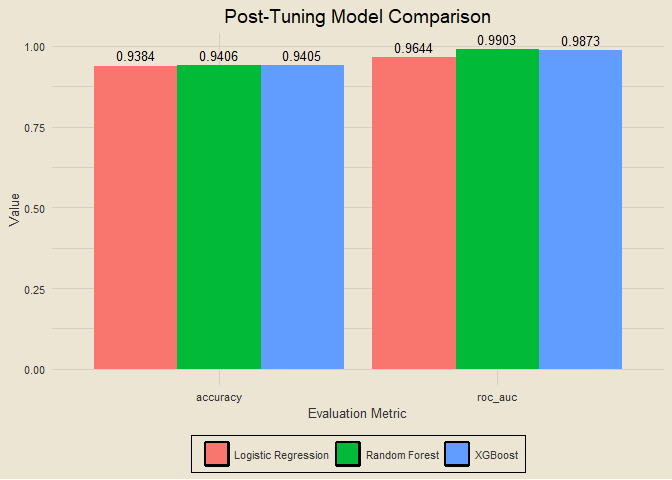
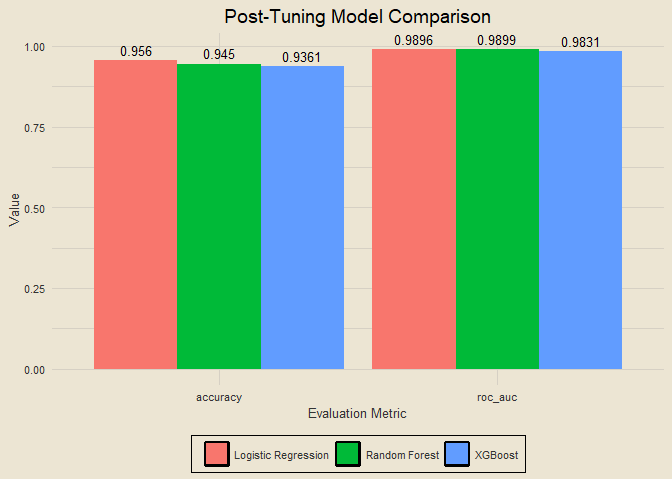
new commit

diff --git a/README.md b/README.md
@@ -935,24 +935,24 @@ pre_rec |>
 </details>
 
     ## # A tibble: 10 × 18
-    ##          id texture_mean area_…¹ smoot…² symme…³ fract…⁴ radiu…⁵ textu…⁶ smoot…⁷
-    ##       <dbl>        <dbl>   <dbl>   <dbl>   <dbl>   <dbl>   <dbl>   <dbl>   <dbl>
-    ##  1   884948       0.993   2.02    0.309   1.43    -0.541   2.16   -0.718  -0.586
-    ##  2   901041       0.530  -0.309  -0.749   0.0123  -0.827  -0.516   0.584  -0.514
-    ##  3    87163       0.0791 -0.254  -0.418  -0.779   -0.862   0.233  -0.127  -0.346
-    ##  4   925311       2.34   -0.764  -1.56   -2.74    -1.10   -0.328   4.86    0.184
-    ##  5   924084       2.36   -0.418  -0.967  -0.994   -0.910  -0.592   0.272   0.598
-    ##  6 84610002      -0.325   0.358   0.0526  0.111   -0.280   0.363  -0.420  -0.423
-    ##  7   914102       0.291  -0.330  -1.64   -0.360   -0.555  -0.294   0.464   0.253
-    ##  8 84799002       1.92    0.0111  1.25    1.79     1.13   -0.127  -0.333  -0.478
-    ##  9  8911670       0.161   1.27   -0.507  -0.954   -1.82   -0.277  -0.705   0.177
-    ## 10   901549      -1.47   -0.763   1.94    0.753    0.898  -0.537  -0.419  -0.135
+    ##           id texture_…¹ area_…² smooth…³ symme…⁴ fract…⁵ radiu…⁶ textu…⁷ smoot…⁸
+    ##        <dbl>      <dbl>   <dbl>    <dbl>   <dbl>   <dbl>   <dbl>   <dbl>   <dbl>
+    ##  1   8911834     -0.956  -0.192 -0.0853    1.09  -0.604  -0.567  -0.539   -0.935
+    ##  2   8810158      0.756  -0.357  0.273     0.140  1.46   -0.765  -0.534   -0.596
+    ##  3  84667401      0.772  -0.218  1.19      0.939  1.99   -0.696  -0.0867  -0.204
+    ##  4    884689     -1.01   -0.706  0.351     0.260 -0.158  -0.537  -0.324   -0.126
+    ##  5   9113514     -0.277  -1.05  -0.942    -0.480  0.187  -0.229   0.172    1.31 
+    ##  6   8812816     -1.43   -0.244  0.00709  -1.65   0.0910 -0.703  -1.42    -0.969
+    ##  7 911320502     -0.249  -0.334 -1.54     -1.30  -1.04   -0.732  -0.964   -0.357
+    ##  8    895299     -0.316  -0.594 -1.39     -1.57  -0.297  -0.619  -0.557   -0.770
+    ##  9    921092      1.44   -1.35  -1.09      0.213  1.42   -0.0991  0.444    1.87 
+    ## 10   8810436     -1.48    0.201 -1.03     -1.65  -1.07   -0.692  -1.55    -0.916
     ## # … with 9 more variables: compactness_se <dbl>, concave_points_se <dbl>,
     ## #   symmetry_se <dbl>, fractal_dimension_se <dbl>, smoothness_worst <dbl>,
     ## #   compactness_worst <dbl>, symmetry_worst <dbl>,
     ## #   fractal_dimension_worst <dbl>, diagnosis <fct>, and abbreviated variable
-    ## #   names ¹area_mean, ²smoothness_mean, ³symmetry_mean,
-    ## #   ⁴fractal_dimension_mean, ⁵radius_se, ⁶texture_se, ⁷smoothness_se
+    ## #   names ¹texture_mean, ²area_mean, ³smoothness_mean, ⁴symmetry_mean,
+    ## #   ⁵fractal_dimension_mean, ⁶radius_se, ⁷texture_se, ⁸smoothness_se
 
 ### Building Cross Validation Folds
 
@@ -1038,9 +1038,9 @@ log_res |>
     ## # A tibble: 3 × 3
     ##   .metric   mean std_err
     ##   <chr>    <dbl>   <dbl>
-    ## 1 accuracy 0.938  0.0172
-    ## 2 f_meas   0.950  0.0139
-    ## 3 roc_auc  0.964  0.0201
+    ## 1 accuracy 0.956 0.00597
+    ## 2 f_meas   0.965 0.00488
+    ## 3 roc_auc  0.990 0.00372
 
 ### Building Random Forest Specification and Workflow
 
@@ -1105,9 +1105,9 @@ rf_res |>
     ## # A tibble: 3 × 3
     ##   .metric   mean std_err
     ##   <chr>    <dbl>   <dbl>
-    ## 1 accuracy 0.947 0.00637
-    ## 2 f_meas   0.959 0.00462
-    ## 3 roc_auc  0.990 0.00336
+    ## 1 accuracy 0.938 0.0145 
+    ## 2 f_meas   0.952 0.0109 
+    ## 3 roc_auc  0.988 0.00454
 
 ### Building XGBoost Specification and Workflow
 
@@ -1169,9 +1169,9 @@ xgb_res |>
     ## # A tibble: 3 × 3
     ##   .metric   mean std_err
     ##   <chr>    <dbl>   <dbl>
-    ## 1 accuracy 0.954 0.00418
-    ## 2 f_meas   0.964 0.00316
-    ## 3 roc_auc  0.987 0.00434
+    ## 1 accuracy 0.947 0.0145 
+    ## 2 f_meas   0.958 0.0111 
+    ## 3 roc_auc  0.987 0.00586
 
 ### Comparing Model Results
 
@@ -1215,14 +1215,18 @@ three_mod_res |>
 
 ![](README_files/figure-gfm/unnamed-chunk-50-1.png)<!-- -->
 
-After this initial modeling step, we have achieved an accuracy of
-93.84%, an F1 score of 95.01%, and an AUC value of 96.44% with a
-logistic regression model. We have achieved similar results with our
-random forest and XGBoost models as well, and will now tune the
-hyperparameters for those models to see if we can improve upon our
-current results.
+After this initial modeling step, we have achieved an accuracy of 95.6%,
+an F1 score of 96.49%, and an AUC value of 98.96% with a logistic
+regression model. We have achieved similar results with our random
+forest and XGBoost models as well, and will now tune the hyperparameters
+for those models to see if we can improve upon our current results.
 
 ### Random Forest Tuning
+
+<details>
+<summary>
+View Code
+</summary>
 
 ``` r
 tune_spec = rand_forest(trees = 1000, mtry = tune(), min_n = tune()) |>
@@ -1237,23 +1241,37 @@ doParallel::registerDoParallel()
 tune_res = tune_grid(tune_wf, resamples = cv_folds, grid = 25)
 ```
 
+</details>
+
     ## i Creating pre-processing data to finalize unknown parameter: mtry
+
+<details>
+<summary>
+View Code
+</summary>
 
 ``` r
 tune_res |>
   show_best("accuracy")
 ```
 
+</details>
+
     ## # A tibble: 5 × 8
     ##    mtry min_n .metric  .estimator  mean     n std_err .config              
     ##   <int> <int> <chr>    <chr>      <dbl> <int>   <dbl> <chr>                
-    ## 1     1    28 accuracy binary     0.941     5 0.00889 Preprocessor1_Model05
-    ## 2     3    24 accuracy binary     0.941     5 0.00654 Preprocessor1_Model23
-    ## 3     3    35 accuracy binary     0.941     5 0.00437 Preprocessor1_Model21
-    ## 4     4     8 accuracy binary     0.941     5 0.00445 Preprocessor1_Model22
-    ## 5    10    25 accuracy binary     0.940     5 0.00901 Preprocessor1_Model16
+    ## 1     2    11 accuracy binary     0.945     5  0.0125 Preprocessor1_Model20
+    ## 2     2    18 accuracy binary     0.941     5  0.0141 Preprocessor1_Model04
+    ## 3     9     5 accuracy binary     0.941     5  0.0169 Preprocessor1_Model06
+    ## 4    14     8 accuracy binary     0.938     5  0.0169 Preprocessor1_Model16
+    ## 5     5    16 accuracy binary     0.938     5  0.0189 Preprocessor1_Model18
 
 ### XGBoost Tuning
+
+<details>
+<summary>
+View Code
+</summary>
 
 ``` r
 xgb_spec = boost_tree(trees = 1000, tree_depth = tune(), min_n = tune(),
@@ -1277,18 +1295,25 @@ xgb_res |>
   show_best("roc_auc")
 ```
 
+</details>
+
     ## # A tibble: 5 × 12
     ##    mtry min_n tree_depth learn_rate loss_r…¹ sampl…² .metric .esti…³  mean     n
     ##   <int> <int>      <int>      <dbl>    <dbl>   <dbl> <chr>   <chr>   <dbl> <int>
-    ## 1     5    11          8    2.88e-2 4.26e- 8   0.907 roc_auc binary  0.987     5
-    ## 2    21     7         10    1.44e-2 1.44e- 6   0.369 roc_auc binary  0.986     5
-    ## 3     3    18          4    1.32e-8 1.11e-10   0.676 roc_auc binary  0.979     5
-    ## 4    11     3          8    6.23e-4 3.39e- 5   0.410 roc_auc binary  0.978     5
-    ## 5     7    16         12    1.89e-5 1.62e- 4   0.771 roc_auc binary  0.976     5
+    ## 1    32    12         14 0.00542     2.17e-9   0.810 roc_auc binary  0.983     5
+    ## 2     7     2          6 0.00000995  1.61e-6   0.829 roc_auc binary  0.978     5
+    ## 3     2    14         11 0.00122     5.90e-3   0.636 roc_auc binary  0.975     5
+    ## 4    14    22         12 0.0176      4.34e-4   0.891 roc_auc binary  0.973     5
+    ## 5     2     6         10 0.00000320  2.72e-7   0.313 roc_auc binary  0.972     5
     ## # … with 2 more variables: std_err <dbl>, .config <chr>, and abbreviated
     ## #   variable names ¹loss_reduction, ²sample_size, ³.estimator
 
 ### Post-Tuning Model Comparison
+
+<details>
+<summary>
+View Code
+</summary>
 
 ``` r
 lr_acc = collect_metrics(log_res) |>
@@ -1327,6 +1352,8 @@ data.frame(model = c("Logistic Regression", "Random Forest", "XGBoost"),
   labs(title = "Post-Tuning Model Comparison", fill = NULL, x = "Evaluation Metric", y = "Value")
 ```
 
+</details>
+
 ![](README_files/figure-gfm/unnamed-chunk-53-1.png)<!-- -->
 
 ### Script Runtime
@@ -1335,4 +1362,4 @@ data.frame(model = c("Logistic Regression", "Random Forest", "XGBoost"),
 tictoc::toc()
 ```
 
-    ## 118.2 sec elapsed
+    ## 140.57 sec elapsed
